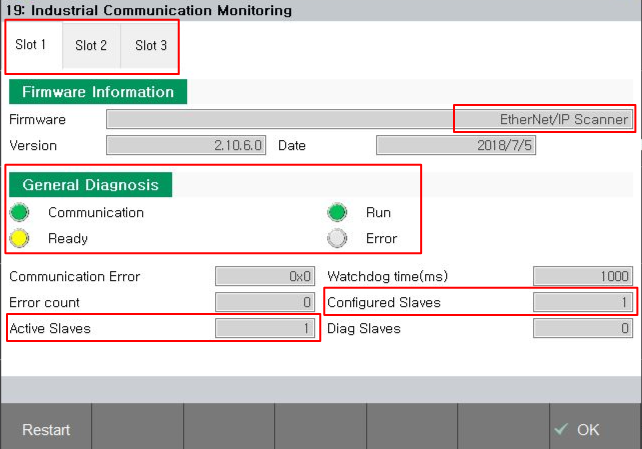
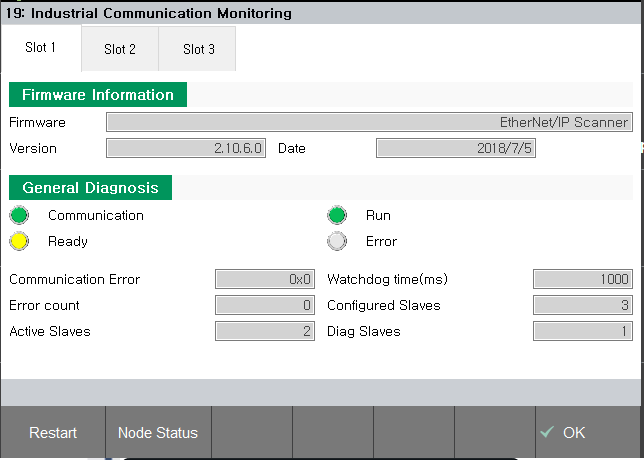
산업용 통신 모니터링 매뉴얼 업데이트

Changed region(s): [[0.0, 0.0, 1.0, 1.0]]

diff --git a/1-cifx-pci-communication/4-cifx-pci-monitoring-industrial-communication/README.md b/1-cifx-pci-communication/4-cifx-pci-monitoring-industrial-communication/README.md
@@ -14,4 +14,44 @@
 
 ![[그림 1.4-1 산업용 통신 모니터터링]](<../../_assets/1-cifx-pci-communication/4-cifx-pci-monitoring-industrial-communication/image_1.png>)
 
+{% hint style="info" %}
+\.      [상태 정보]   
+\.       통신 상태 (Communication) : 통신 연결 및 IO 교환 중   
+\.       동작 (Run) : 통신 카드 동작 중   
+\.       준비 (Ready) : 통신 준비 상태   
+\.       에러 (Error) : 통신 에러 상태   
 
+\.       통신 에러 (Communication Error) : 통신 중 발생한 에러 코드   
+\.       에러 횟수 (Error Count) : 에러 발생 누적 횟수   
+\.       활성 슬레이브 (Active Slaves) : 통신 연결 및 IO 교환 중인 슬레이브 수   
+\.       슬레이브 구성 (Configured Slaves) : 통신 연결 설정한 슬레이브 수   
+\.       진단 슬레이브 (Diag Slave) : 통신 진단 중인 슬레이브 수   
+\.       Watchdog time (ms) : 통신 프로그램 동작 감지 기능 Timeout 시간   
+{% endhint %}
+
+
+
+### 산업용 통신 노드 모니터링
+
+<br> 
+
+#### 지원 버전 미정
+
+<br>
+
+모니터링 화면 하단의 노드 상태(Node Status) 버튼을 클릭하여 마스터 프로토콜에 연결된 장치의 상태를 모니터링 합니다.
+
+![[그림 1.4-2 산업용 통신 모니터터링]](<../../_assets/1-cifx-pci-communication/4-cifx-pci-monitoring-industrial-communication/image_2.png>)
+
+{% hint style="info" %}
+\.      [노드 상태 정보]   
+\.       초록색 : 통신 연결 및 IO 교환 중인 노드   
+\.       빨간색 : 통신 설정은 했으나 연결 안된 노드   
+{% endhint %}
+
+
+{% hint style="info" %}
+\.      DeviceNet Master의 경우 노드 정보 리스트를 스캔하여 모니터링 할 수 있습니다.
+{% endhint %}
+
+![[그림 1.4-3 산업용 통신 모니터터링]](<../../_assets/1-cifx-pci-communication/4-cifx-pci-monitoring-industrial-communication/image_3.png>)
